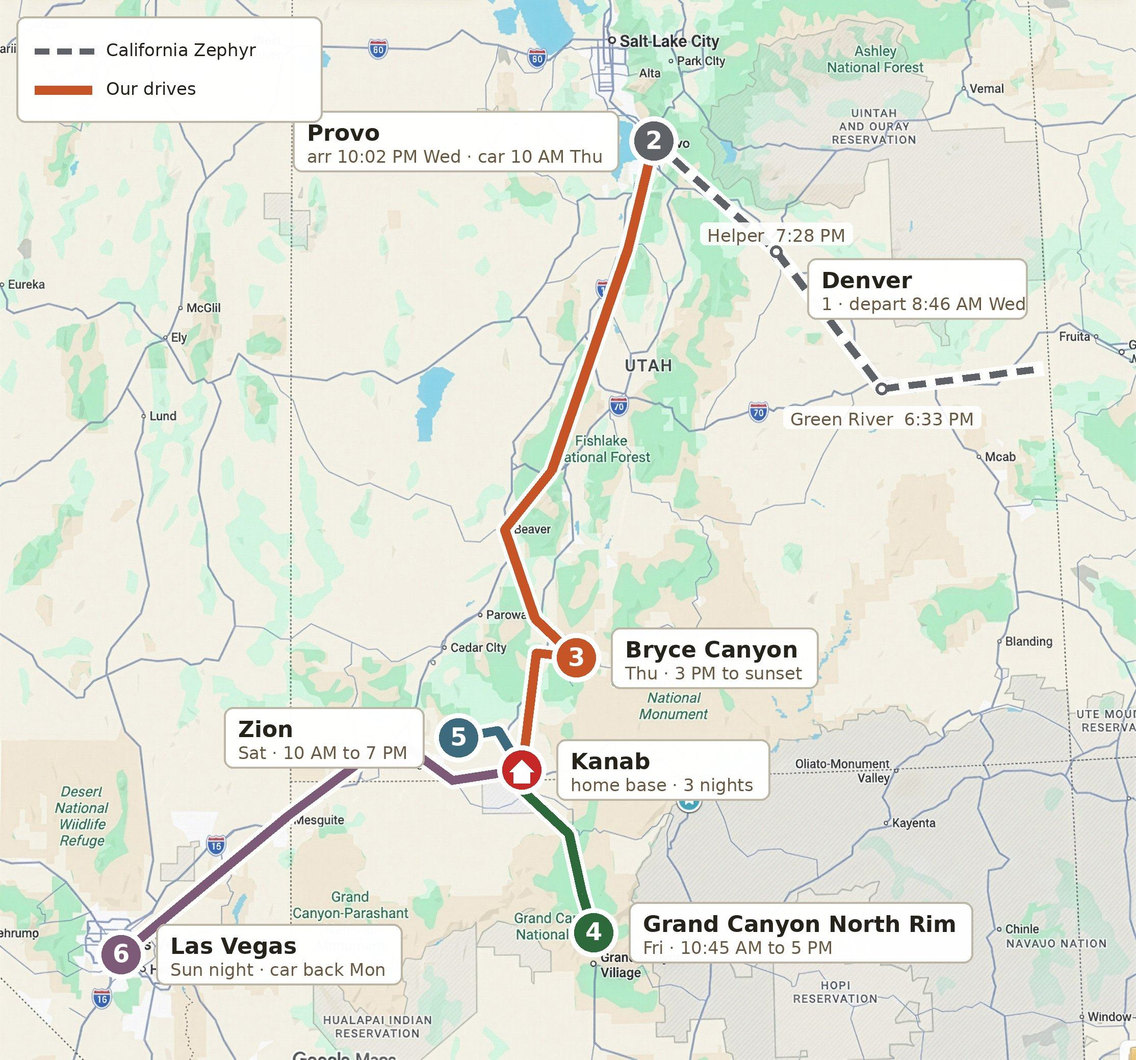
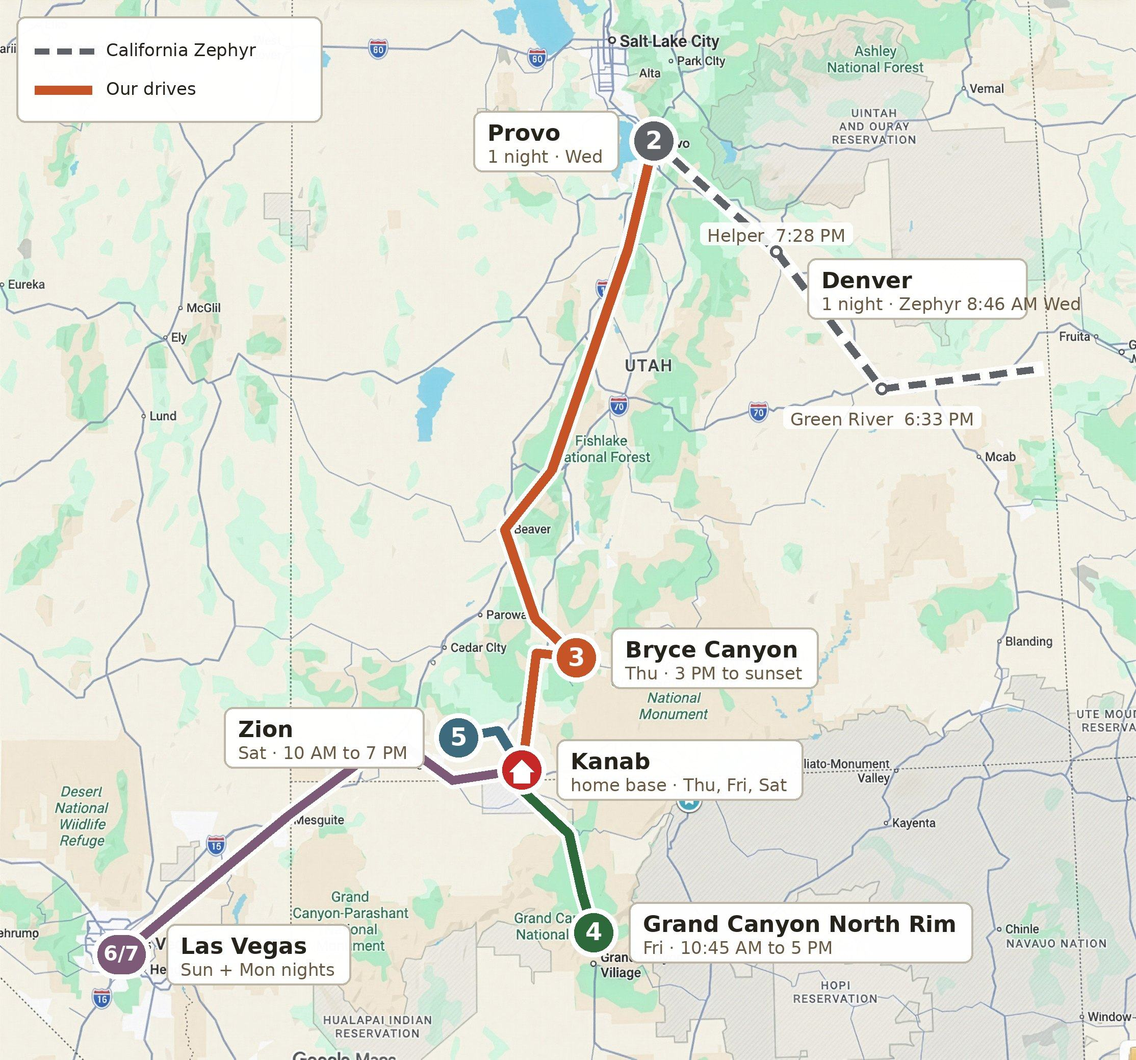
Add files via upload

diff --git a/index.html b/index.html
@@ -49,7 +49,7 @@
   .day{background:var(--card);border:2px solid var(--ink);border-left:0;border-right:0;border-radius:0;padding:16px 16px;margin:14px 0;box-shadow:4px 4px 0 rgba(47,36,23,.18);border-left-width:10px;border-left-color:var(--d1)}
   .day h2{margin:0;font-size:18px;display:flex;align-items:center;gap:10px;letter-spacing:.02em}
   .day .date{display:block;color:var(--orange);font-size:12.5px;font-weight:700;margin-top:3px;text-transform:uppercase;letter-spacing:.12em}
-  .pill{display:inline-flex;align-items:center;justify-content:center;min-width:27px;height:27px;border-radius:4px;color:#f4e9d3;font-size:14px;font-weight:700;border:1.5px solid rgba(47,36,23,.5)}
+  .pill{display:inline-flex;align-items:center;justify-content:center;min-width:27px;height:27px;padding:0 5px;white-space:nowrap;flex:none;border-radius:4px;color:#f4e9d3;font-size:14px;font-weight:700;border:1.5px solid rgba(47,36,23,.5)}
   .day figure{margin:12px -16px 0;border-top:2px solid var(--ink);border-bottom:2px solid var(--ink)}
   .day figure img{width:100%;display:block;aspect-ratio:3/2;object-fit:cover;background:#eee9df}
   .day figcaption{padding:9px 16px;background:#faf7f0;color:var(--ink2);font-size:14.5px;line-height:1.4}
@@ -158,7 +158,7 @@
     </ul>
     <figure><img src="zion.jpg" loading="lazy" decoding="async" alt="Zion Canyon from Angels Landing"><figcaption>2,000-ft sandstone walls above the Virgin River. Every shuttle stop is its own viewpoint.</figcaption></figure>
   </div>
-  <div class="day t5"><h2><span class="pill" style="background:var(--d5)">6</span><span>Viva Las Vegas · 2 Nights<span class="date">Sunday–Monday, September 13–14</span></span></h2>
+  <div class="day t5"><h2><span class="pill" style="background:var(--d5)">6/7</span><span>Viva Las Vegas · 2 Nights<span class="date">Sunday–Monday, September 13–14</span></span></h2>
     <ul>
       <li><b>SUN 10:00 AM</b>Drive down from Kanab (3½ hr · Pacific Time is 1 hr behind Utah)</li>
       <li><b>~12:30 PM PT</b>Arrive Las Vegas · <b>drop the rental car</b>, returned right at the hotel <span class="tag">BOOKED</span></li>
@@ -170,7 +170,7 @@
     </ul>
     <figure><img src="bellagio.jpg" loading="lazy" decoding="async" alt="Bellagio fountains on the Las Vegas Strip"><figcaption>The fountains run every 15 minutes after 8 PM, set to music, and the conservatory across the way is free and indoors.</figcaption></figure>
   </div>
-  <div class="day t5"><h2><span class="pill" style="background:var(--d5)">7</span><span>Homeward Bound<span class="date">Tuesday, September 15</span></span></h2>
+  <div class="day t5"><h2><span class="pill" style="background:var(--d5)">8</span><span>Homeward Bound<span class="date">Tuesday, September 15</span></span></h2>
     <ul>
       <li>Breakfast · <b>~11:00 AM</b>Cab or rideshare to Harry Reid Intl, about 15 minutes</li>
       <li><b>1:30 PM</b>Mom flies home · Southwest 421, nonstop to Pittsburgh, in at 8:55 PM <span class="tag">BOOKED · CP5V93</span></li>
